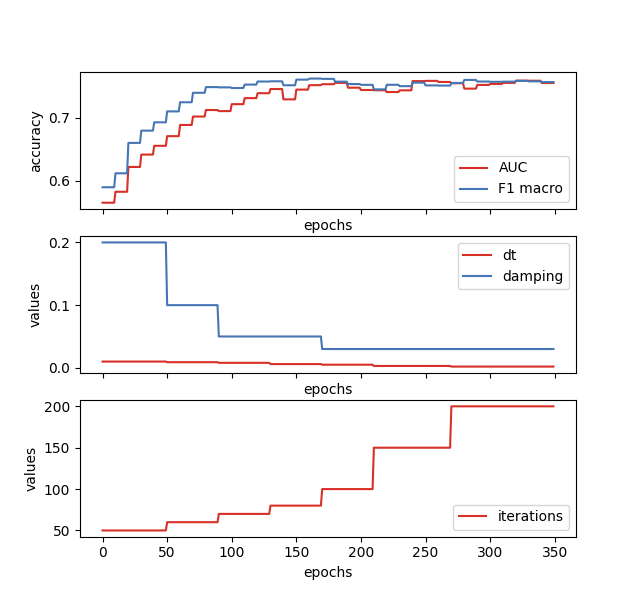
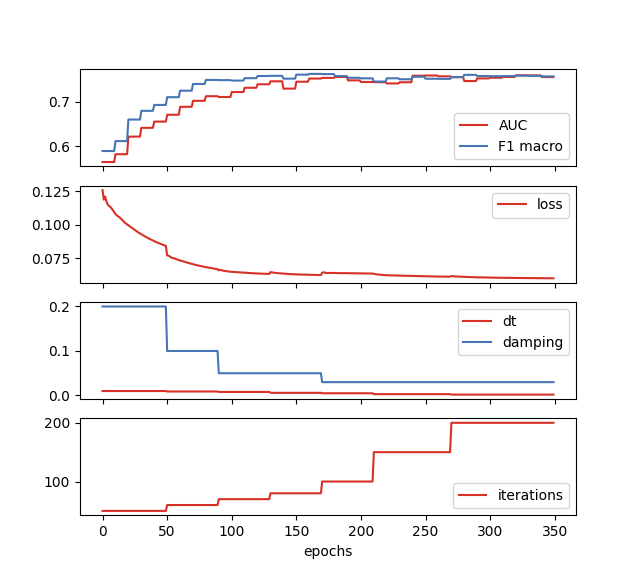
plot adjustements

diff --git a/plots/training.py b/plots/training.py
@@ -15,28 +15,25 @@ plt.show()
 #colors = plt.cm.get_cmap('Set1', 10)
 colors = ['#d73027', '#4575b4', '#91bfdb', '#984ea3', '#ff7f00']
 # Three subplots with shared x axis
-fig, (ax1, ax2, ax3) = plt.subplots(3, 1, sharex=True)
+fig, (ax1, ax2, ax3, ax4) = plt.subplots(4, 1, sharex=True)
 # plot metrics over time
 ax1.plot(epochs, data.auc, color=colors[0])
 ax1.plot(epochs, data.f1_macro, color=colors[1])
+# shared x axis
 # set legend position top right
 
 ax1.legend(['AUC', 'F1 macro'], loc='lower right')
-ax1.set_xlabel('epochs')
-ax1.set_ylabel('accuracy')
 
-ax2.plot(epochs, data.dt, color=colors[0])
-ax2.plot(epochs, data.damping, color=colors[1])
-ax2.set_xlabel('epochs')
-ax2.set_ylabel('values')
+ax2.plot(epochs, data.loss, color=colors[0])
+ax2.legend(['loss'], loc='upper right')
 
-ax2.legend(['dt', 'damping'], loc='upper right')
-ax2.set_xlabel('epochs')
-ax2.set_ylabel('values')
+ax3.plot(epochs, data.dt, color=colors[0])
+ax3.plot(epochs, data.damping, color=colors[1])
 
-ax3.plot(epochs, data.iterations, color=colors[0])
-ax3.legend(['iterations'], loc='lower right')
-ax3.set_xlabel('epochs')
-ax3.set_ylabel('values')
+ax3.legend(['dt', 'damping'], loc='upper right')
+
+ax4.plot(epochs, data.iterations, color=colors[0])
+ax4.legend(['iterations'], loc='lower right')
+ax4.set_xlabel('epochs')
 
 plt.show()
